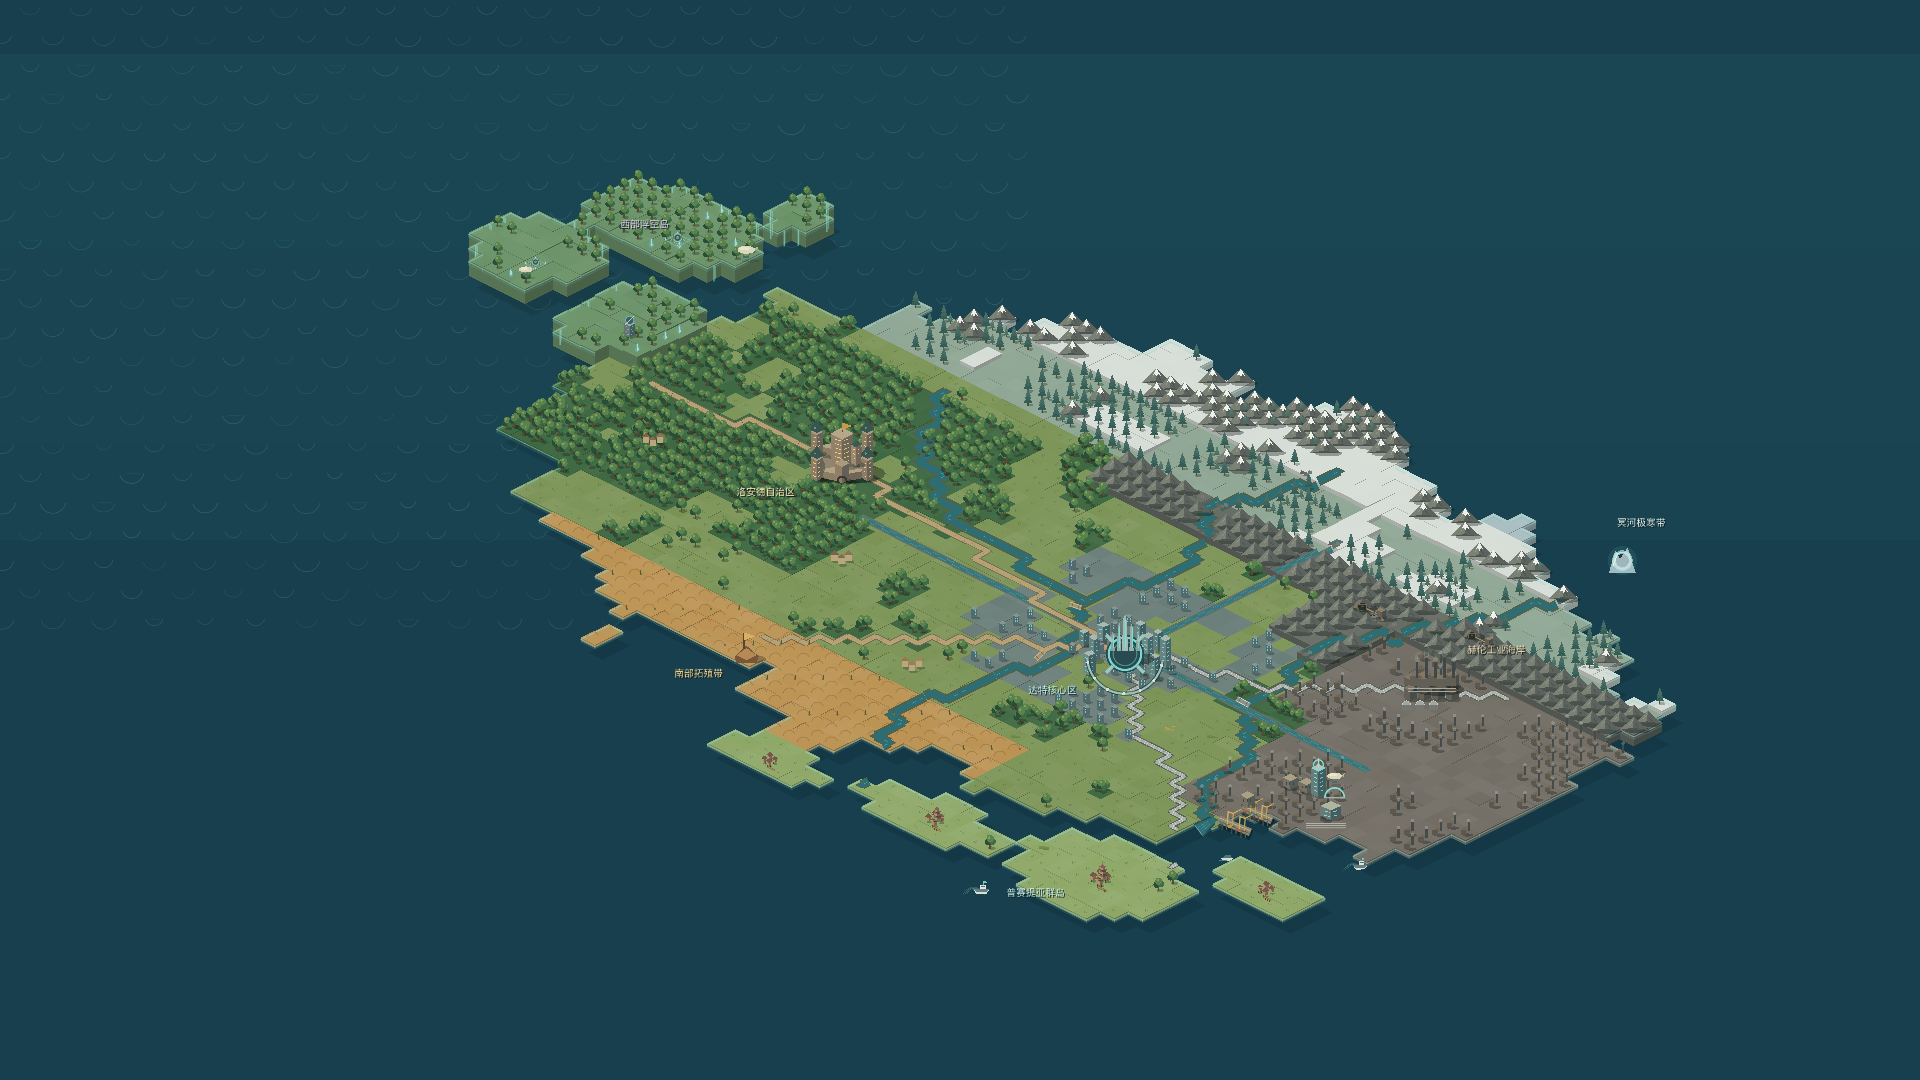
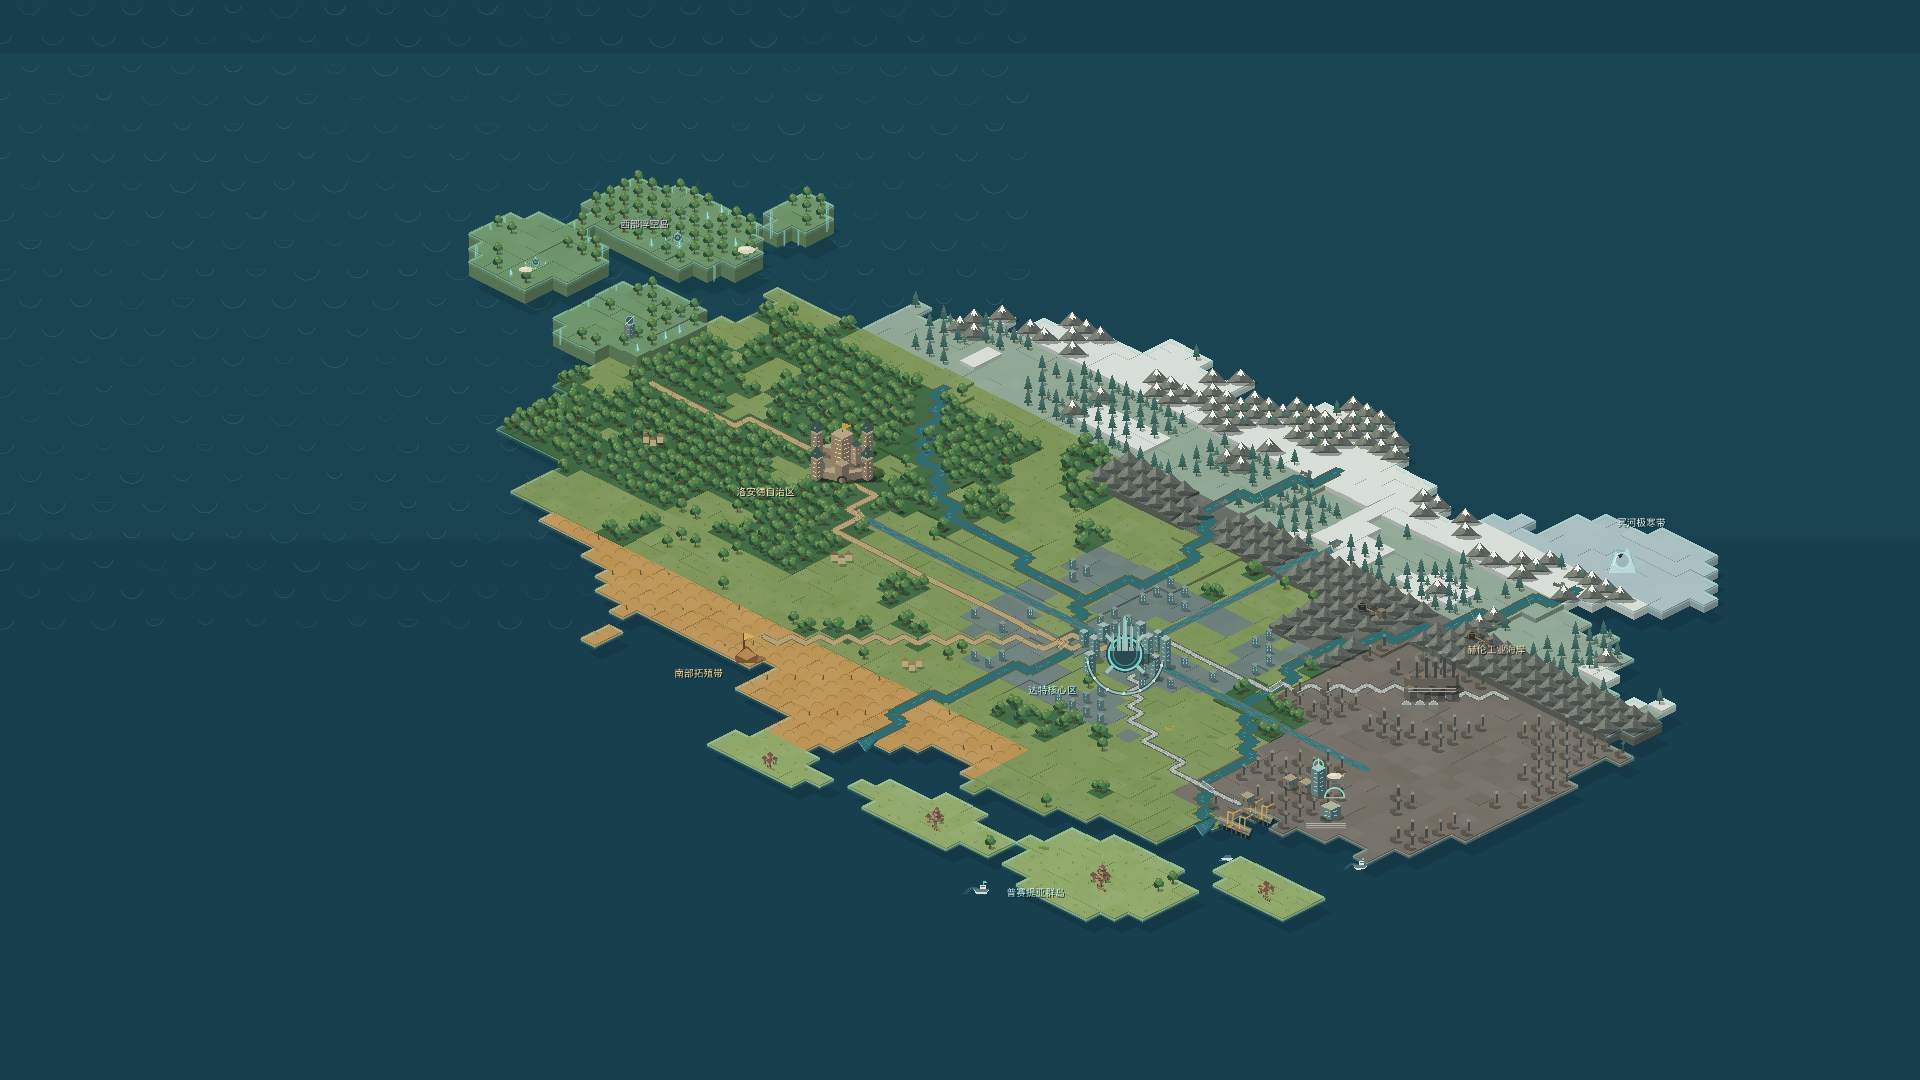
Correct world map geography and infrastructure

diff --git a/docs/ring_world_map.md b/docs/ring_world_map.md
@@ -34,6 +34,14 @@ The active campaign map is a lightweight 2D isometric tile map implemented in
 - Rivers that reach the coastline use a dedicated elevation transition from
   the final land cell to the first ocean cell, so their mouths remain visibly
   connected to sea level instead of stopping at the coastal cliff.
+- The Nether landmark and eastern river source sit on a connected polar
+  peninsula rather than offshore. Infrastructure paths stop at their first
+  coastline, preventing detached river or railway fragments from reappearing
+  on islands across open water.
+- River valleys use continuous downhill profiles through biome boundaries.
+  Roads stay on connected land, randomized buildings reserve clear railway,
+  road and waterway cells, and every remaining transport crossing has an
+  explicit bridge.
 - Rendering is ordered as terrain, embedded waterways and roads, bridges,
   vegetation, then buildings. Infrastructure tiles sample terrain elevation,
   roads reserve clear verges, and crossings use separate bridge decks instead
